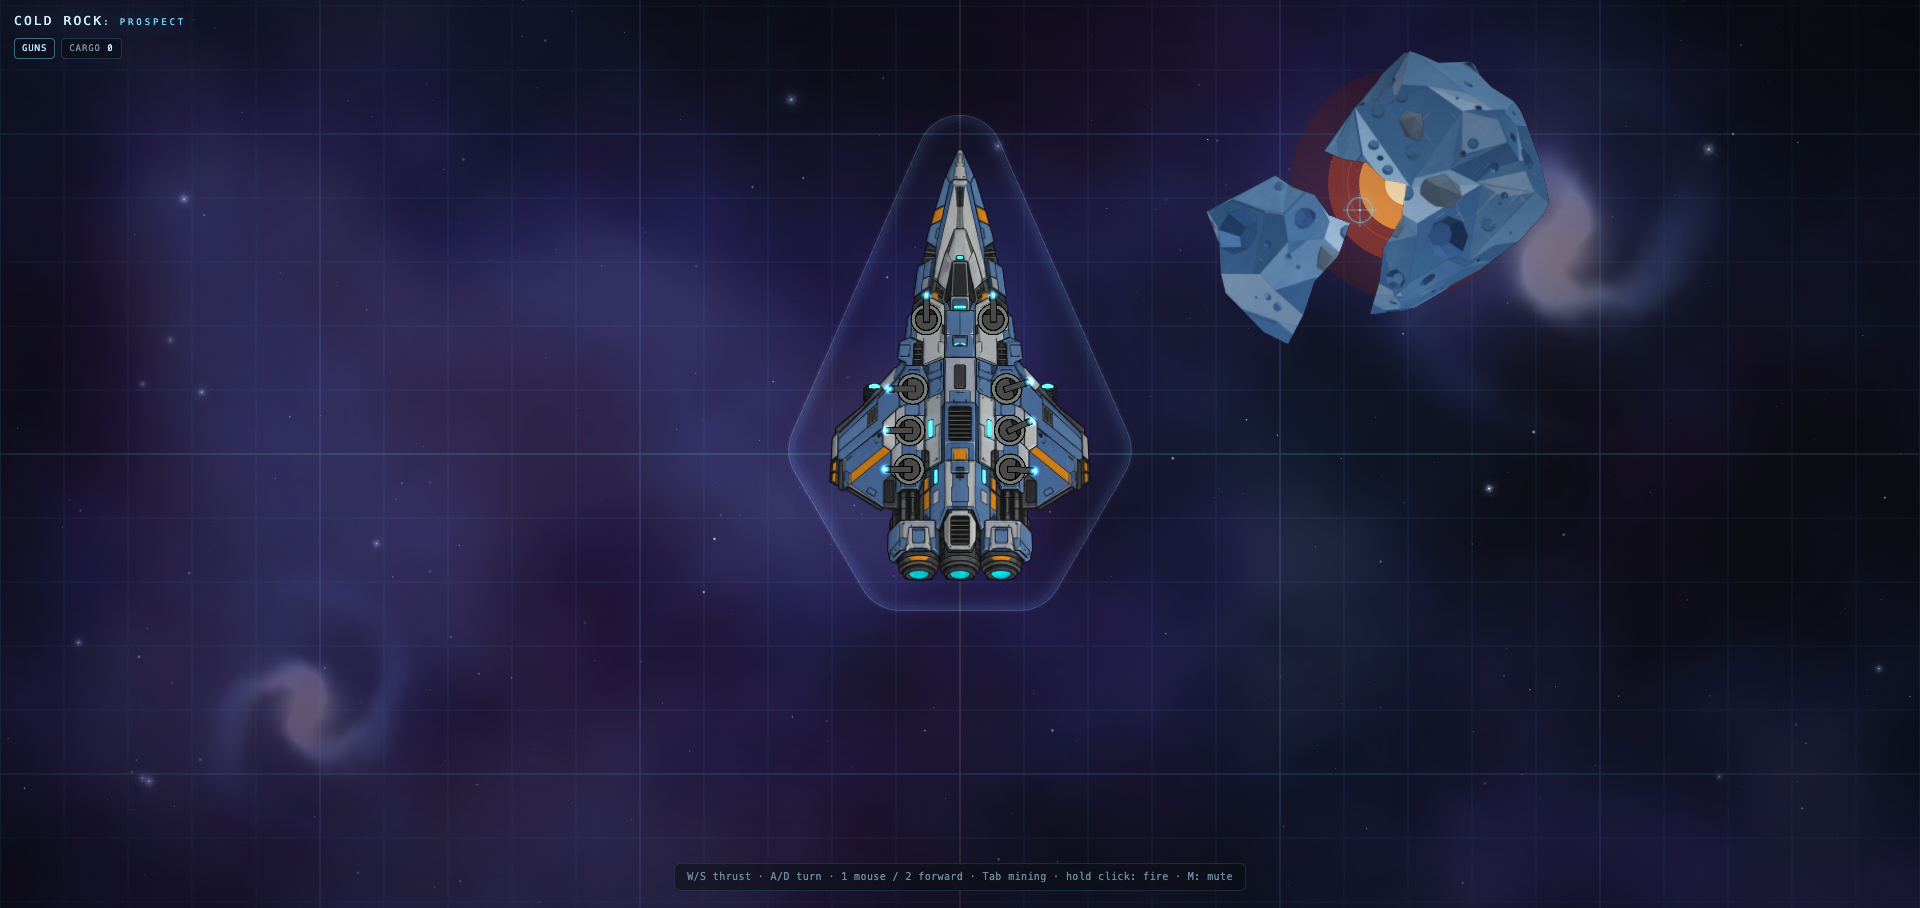
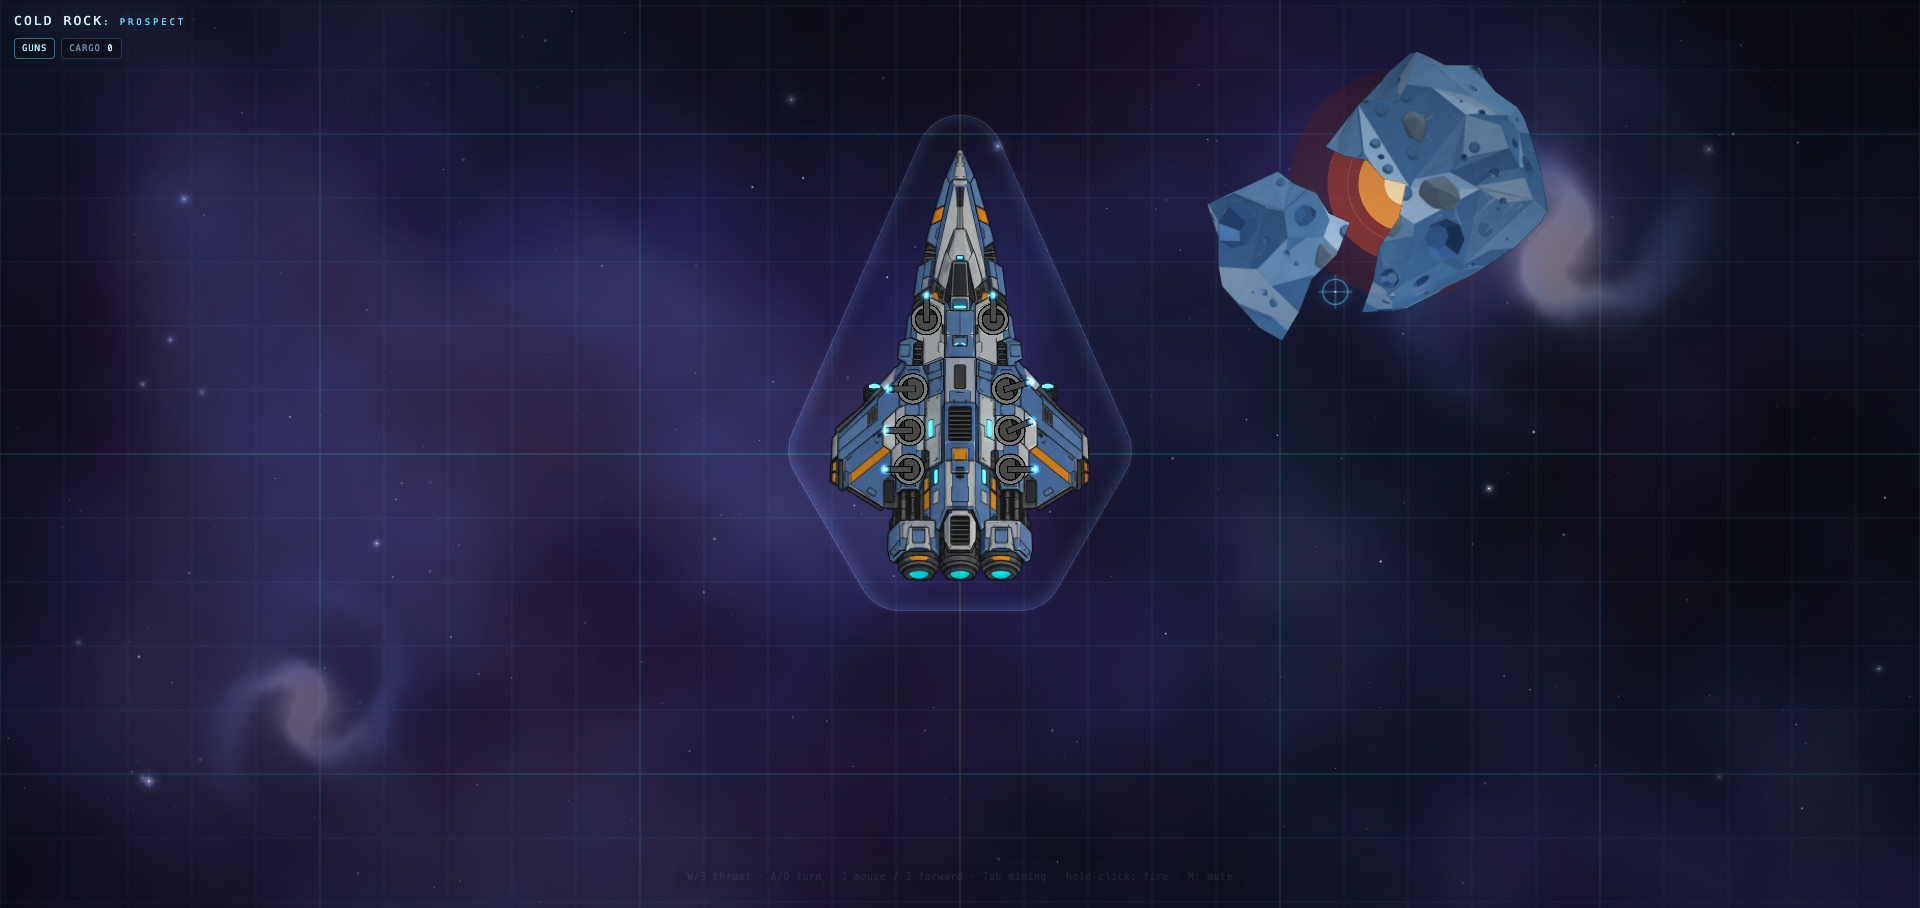
feat: make the black crack a five-shot progress hitbox

diff --git a/src/app/fracture-rock.ts b/src/app/fracture-rock.ts
@@ -2,15 +2,15 @@ import { CanvasSource, Container, Graphics, Texture } from 'pixi.js';
 import type { AsteroidField } from './asteroid-field';
 import { colliderWorldPoints } from './asteroid-collision';
 import type { AsteroidCollider, Vec2 } from './asteroid-collision';
-import { planPolylineCut } from './fracture-model';
+import { distanceToPolyline, planPolylineCut } from './fracture-model';
 import type { PolygonFragment } from './fracture-model';
 import { createLitSprite } from './lit-sprite';
 import type { LightingState, LitSprite } from './lit-sprite';
 import { PIXELS_PER_METER } from './world-scale';
 
-const SHELL_HITS_TO_BREAK = 3;
-const WEAK_POINT_RADIUS_FRACTION = 0.62;
-const WEAK_POINT_HIT_RADIUS_M = 1.8;
+const SHELL_HITS_TO_BREAK = 5;
+/** How close a bullet hit must land to the black crack line. */
+const CRACK_HIT_RADIUS_M = 0.85;
 const FRAGMENT_DAMPING = 2.2;
 /** Immediate separation so the two cut faces never stay welded together. */
 const SEPARATION_GAP_M = 0.55;
@@ -150,10 +150,6 @@ export function createFractureRock(field: AsteroidField, options: FractureOption
   const shellCollider = asteroid.collider;
   const metresPerArtPixel = asteroid.diameter / art.color.width;
   const weakPointAngle = options.weakPointAngle ?? 0;
-  const weakPointLocal = {
-    x: Math.cos(weakPointAngle) * shellCollider.radius * WEAK_POINT_RADIUS_FRACTION,
-    y: Math.sin(weakPointAngle) * shellCollider.radius * WEAK_POINT_RADIUS_FRACTION,
-  };
   // Computed once: the same jagged polyline is the crack and both fragment
   // cut edges. No straight wedge is used.
   const fracturePlan = planPolylineCut(shellCollider.points, weakPointAngle, WEDGE_ANGLE);
@@ -161,8 +157,6 @@ export function createFractureRock(field: AsteroidField, options: FractureOption
   const container = new Container();
   container.name = 'fracture';
   container.sortableChildren = true;
-  const marker = new Graphics();
-  marker.zIndex = 20;
   const crack = new Graphics();
   crack.zIndex = 15;
   const crackMask = new Graphics();
@@ -171,7 +165,7 @@ export function createFractureRock(field: AsteroidField, options: FractureOption
   const core = new Graphics();
   core.zIndex = -10;
   core.visible = false;
-  container.addChild(marker, crack, crackMask, core);
+  container.addChild(crack, crackMask, core);
 
   const fragments: FragmentBody[] = [];
   let shellBroken = false;
@@ -180,34 +174,12 @@ export function createFractureRock(field: AsteroidField, options: FractureOption
   let coreOwner: FragmentBody | null = null;
   let coreLocalOffset: Vec2 = { x: 0, y: 0 };
   let hitCount = 0;
-  let hitFlash = 0;
   let lastFrame: FractureFrame | null = null;
 
-  const weakPointWorld = (): { x: number; y: number } => {
-    const local = rotate(weakPointLocal, shellCollider.rotation);
+  const crackSampleWorld = (): { x: number; y: number } => {
+    const sample = fracturePlan?.cutPath[1] ?? { x: 0, y: 0 };
+    const local = rotate(sample, shellCollider.rotation);
     return { x: shellCollider.x + local.x, y: shellCollider.y + local.y };
-  };
-
-  const drawMarker = (frame: FractureFrame, now: number): void => {
-    marker.clear();
-    if (shellBroken) {
-      marker.visible = false;
-      return;
-    }
-    marker.visible = true;
-    const world = weakPointWorld();
-    const screen = screenPoint(world.x, world.y, frame);
-    const pulse = 0.82 + 0.18 * Math.sin(now * 5.2);
-    const radius = Math.max(11, 1.05 * PIXELS_PER_METER * frame.zoom);
-    const hot = hitFlash > 0;
-    const colour = hot ? 0xffd38a : 0xffb44a;
-    marker
-      .circle(screen.x, screen.y, radius * pulse)
-      .stroke({ color: colour, width: 2, alpha: 0.85 });
-    marker
-      .circle(screen.x, screen.y, radius * 0.55)
-      .stroke({ color: colour, width: 1, alpha: 0.55 });
-    marker.circle(screen.x, screen.y, 3).fill({ color: colour, alpha: 0.95 });
   };
 
   const spawnFragment = (plan: PolygonFragment, index: number, side: number): void => {
@@ -268,7 +240,6 @@ export function createFractureRock(field: AsteroidField, options: FractureOption
 
   const breakShell = (): void => {
     shellBroken = true;
-    marker.visible = false;
     crack.visible = false;
     asteroid.active = false;
     asteroid.mesh.mesh.visible = false;
@@ -333,7 +304,7 @@ export function createFractureRock(field: AsteroidField, options: FractureOption
 
   const drawCrack = (frame: FractureFrame): void => {
     crack.clear();
-    if (shellBroken || hitCount === 0 || !fracturePlan) {
+    if (shellBroken || !fracturePlan) {
       crack.visible = false;
       return;
     }
@@ -350,19 +321,49 @@ export function createFractureRock(field: AsteroidField, options: FractureOption
       return screenPoint(shellCollider.x + rotated.x, shellCollider.y + rotated.y, frame);
     });
     if (path.length < 2) return;
-    const stroke = (color: number, width: number, alpha: number): void => {
+
+    const strokeAll = (color: number, width: number, alpha: number): void => {
       crack.moveTo(path[0]!.x, path[0]!.y);
       for (const point of path.slice(1)) crack.lineTo(point.x, point.y);
       crack.stroke({ color, width, alpha });
     };
-    stroke(0x2a0c06, hitCount >= 2 ? 5.5 : 4.5, 0.9);
-    stroke(0xff5a24, hitCount >= 2 ? 3 : 2, hitCount >= 2 ? 0.95 : 0.75);
-    stroke(0xffd08a, 0.9, 0.9);
+    const strokeProgress = (fraction: number): void => {
+      if (fraction <= 0) return;
+      const lengths: number[] = [];
+      let total = 0;
+      for (let index = 1; index < path.length; index += 1) {
+        const a = path[index - 1]!;
+        const b = path[index]!;
+        const length = Math.hypot(b.x - a.x, b.y - a.y);
+        lengths.push(length);
+        total += length;
+      }
+      const target = total * Math.min(1, fraction);
+      let drawn = 0;
+      crack.moveTo(path[0]!.x, path[0]!.y);
+      for (let index = 1; index < path.length; index += 1) {
+        const a = path[index - 1]!;
+        const b = path[index]!;
+        const length = lengths[index - 1] ?? 0;
+        if (drawn + length <= target) {
+          crack.lineTo(b.x, b.y);
+          drawn += length;
+          continue;
+        }
+        const remain = target - drawn;
+        if (remain > 0 && length > 0) {
+          const t = remain / length;
+          crack.lineTo(a.x + (b.x - a.x) * t, a.y + (b.y - a.y) * t);
+        }
+        break;
+      }
+      crack.stroke({ color: 0xff5a24, width: 3.2, alpha: 0.95 });
+    };
 
-    const weak = weakPointWorld();
-    const weakScreen = screenPoint(weak.x, weak.y, frame);
-    crack.circle(weakScreen.x, weakScreen.y, Math.max(3, 0.16 * PIXELS_PER_METER * frame.zoom));
-    crack.fill({ color: 0xfff0d0, alpha: 0.9 });
+    // Black crack is always visible and is the shooting hitbox. The orange
+    // section is the progress bar; five hits fill it before the shell splits.
+    strokeAll(0x070504, 5, 0.95);
+    strokeProgress(hitCount / SHELL_HITS_TO_BREAK);
   };
 
   const drawCore = (frame: FractureFrame, now: number): void => {
@@ -390,9 +391,7 @@ export function createFractureRock(field: AsteroidField, options: FractureOption
     container,
     update(frame: FractureFrame): void {
       lastFrame = frame;
-      hitFlash = Math.max(0, hitFlash - frame.dt);
-      // The field updates the shell transform; the marker tracks the live pose.
-      drawMarker(frame, frame.now);
+      // The field updates the shell transform; the crack follows the live pose.
       drawCrack(frame);
       updateFragments(frame);
       drawCore(frame, frame.now);
@@ -416,15 +415,17 @@ export function createFractureRock(field: AsteroidField, options: FractureOption
       return targets;
     },
     handleBulletHit(blocker: AsteroidCollider, x: number, y: number): void {
-      if (shellBroken || blocker !== shellCollider) return;
-      const weak = weakPointWorld();
-      if (Math.hypot(x - weak.x, y - weak.y) > WEAK_POINT_HIT_RADIUS_M) return;
+      if (shellBroken || blocker !== shellCollider || !fracturePlan) return;
+      const local = rotate(
+        { x: x - shellCollider.x, y: y - shellCollider.y },
+        -shellCollider.rotation,
+      );
+      if (distanceToPolyline(local, fracturePlan.cutPath) > CRACK_HIT_RADIUS_M) return;
       hitCount += 1;
-      hitFlash = 0.35;
       if (hitCount >= SHELL_HITS_TO_BREAK) breakShell();
     },
     getDebug(): FractureDebug {
-      const weak = weakPointWorld();
+      const weak = crackSampleWorld();
       const frame = lastFrame;
       const coreWorld = coreCollider ? { x: coreCollider.x, y: coreCollider.y } : null;
       return {

diff --git a/src/app/fracture-model.ts b/src/app/fracture-model.ts
@@ -341,3 +341,22 @@ export function planPolylineCut(
     large: { polygon: longPolygon, centroid: largeMetrics.centroid, area: largeMetrics.area },
   };
 }
+
+/** Shortest distance from a point to a closed/open polyline of segments. */
+export function distanceToPolyline(point: Vec2, path: readonly Vec2[]): number {
+  if (path.length === 0) return Number.POSITIVE_INFINITY;
+  let best = Number.POSITIVE_INFINITY;
+  for (let index = 1; index < path.length; index += 1) {
+    const a = path[index - 1]!;
+    const b = path[index]!;
+    const dx = b.x - a.x;
+    const dy = b.y - a.y;
+    const lengthSquared = dx * dx + dy * dy;
+    const t =
+      lengthSquared < 1e-9
+        ? 0
+        : Math.max(0, Math.min(1, ((point.x - a.x) * dx + (point.y - a.y) * dy) / lengthSquared));
+    best = Math.min(best, Math.hypot(point.x - (a.x + dx * t), point.y - (a.y + dy * t)));
+  }
+  return best;
+}

diff --git a/tests/fracture-model.test.ts b/tests/fracture-model.test.ts
@@ -1,6 +1,7 @@
 import { describe, expect, it } from 'vitest';
 import {
   convexHull,
+  distanceToPolyline,
   planFragments,
   planPieCut,
   planPolylineCut,
@@ -171,5 +172,22 @@ describe('planPolylineCut', () => {
 
   it('is deterministic', () => {
     expect(planPolylineCut(rock, 0, 1.7)).toEqual(planPolylineCut(rock, 0, 1.7));
+  });
+});
+
+describe('distanceToPolyline', () => {
+  it('measures distance to the nearest segment', () => {
+    expect(
+      distanceToPolyline({ x: 0.5, y: 1 }, [
+        { x: 0, y: 0 },
+        { x: 1, y: 0 },
+      ]),
+    ).toBeCloseTo(1);
+    expect(
+      distanceToPolyline({ x: 2, y: 0 }, [
+        { x: 0, y: 0 },
+        { x: 1, y: 0 },
+      ]),
+    ).toBeCloseTo(1);
   });
 });

diff --git a/docs/GAMEPLAY.md b/docs/GAMEPLAY.md
@@ -80,11 +80,11 @@ straight ahead while the gun battery stays on pointer tracking (and vice versa).
 
 **Asteroids live in the world**, in the same dust layer the ship flies through, so they pan and zoom with the environment; they tumble slowly (0.02–0.06 rad/s) rather than spin. The ship's **centre of mass and the camera start at the world origin**, and the field is a **deterministic scatter of 100 rocks** (seeded) around that origin — here and there, drawn from **ten art variants** (the two supplied rocks plus eight Blender-rendered ones), mostly normal sizes with a few 3x heroes. Placement keeps the **vertical grid axis clear** (no rock edge crosses x = 0) and the ship's spawn bubble empty. Adding more is a single `add(x, y, diameter, variant?)` on the field; every rock gets a collider traced from its own art — a bounding circle for the fast pass and a **convex silhouette polygon that turns with the rock** for the accurate pass — stops tracers, and can be mined (lasers bite the nearest rock their beam hits, tested against that polygon).
 
-**Crackable test rock (prototype).** One authored rock sits ahead-right of the spawn: its amber
-ring is a weak point. In gun mode, three hits on the weak point grow a **hot V-notch crack**,
-clipped to the exact rock silhouette, into the sprite. That crack is the actual cut path: the
-third hit splits the rock along the same **jagged polyline** into a **small cracked-out piece**
-and a **larger >180° piece**. Both are baked from the original art, have their own polygon
+**Crackable test rock (prototype).** One authored rock sits ahead-right of the spawn. It starts
+with a **black jagged crack** clipped to the exact rock silhouette; that black line is the
+shooting hitbox. Five hits fill the crack from **black to orange like a progress bar**. The crack
+is the actual cut path: the fifth hit splits the rock along the same **jagged polyline** into a
+**small cracked-out piece** and a **larger >180° piece**. Both are baked from the original art, have their own polygon
 colliders, drift only a short distance apart with an **immediate gap** and **persist** — no
 physics engine. The
 **molten core sits beneath the shell at the break seam**, exposed through that gap rather than
@@ -92,7 +92,7 @@ painted on the rock surface, and moves with the larger piece. Tab to the mining 
 like any other rock. The
 shell must be opened with guns first: the mining rig has no target on the intact shell.
 
-![V-notch crack growing across the destructible test rock](visuals/09-fracture-crack.png)
+![Initial black crack that must be shot five times](visuals/09-fracture-crack.png)
 
 ![The shell split along the jagged crack into a small piece and the larger core-bearing piece](visuals/10-fracture-wedge.png)
 

diff --git a/AGENTS.md b/AGENTS.md
@@ -172,11 +172,12 @@ behaviour, also run `pnpm browser:inspect` and check the screenshot.
   barrels, and heat/focus drive the laser pitch plus overheat/re-arm one-shots.
 - `src/app/fracture-model.ts` — pure fracture planning: monotonic-chain convex hull, triangle
   region helpers, a wedge cut and a true two-piece polyline cut; unit-tested.
-- `src/app/fracture-rock.ts` — one authored destructible test rock: an amber weak point, a
-  growing V-notch crack overlay (clipped to the live collider silhouette), and a three-hit shell
-  break. The visible crack path is the same jagged polyline used to cut both fragments: the shell
-  splits into a small cracked-out piece plus a larger >180° piece with baked polygon-clipped
-  textures, separate colliders and shallow drift/rotation bodies.
+- `src/app/fracture-rock.ts` — one authored destructible test rock: an **initial black crack**
+  clipped to the live collider silhouette, which is also the shooting hitbox. Five hits fill the
+  crack from black to orange like a progress bar, then the shell breaks. The visible crack path
+  is the same jagged polyline used to cut both fragments: the shell splits into a small
+  cracked-out piece plus a larger >180° piece with baked polygon-clipped textures, separate
+  colliders and shallow drift/rotation bodies.
   Both pieces get an immediate separation gap, persist and stay close to the break. The molten
   core is drawn beneath the shell at the break seam, so it is exposed through the gap rather
   than pasted onto the surface. The fragment shells are mining targets too, so they occlude the

diff --git a/README.md b/README.md
@@ -9,7 +9,7 @@
 ![PixiJS v8](https://img.shields.io/badge/PixiJS-v8-ff5fb0)
 ![TypeScript](https://img.shields.io/badge/TypeScript-strict-3178c6)
 ![Vite](https://img.shields.io/badge/Vite-8-646cff)
-![Vitest](https://img.shields.io/badge/tests-250%20passing-brightgreen)
+![Vitest](https://img.shields.io/badge/tests-251%20passing-brightgreen)
 
 ![COLD ROCK: PROSPECT — flying through the asteroid field](https://github.com/user-attachments/assets/e9592e59-5c2c-4676-bb6c-615cdfad6f9d)
 
